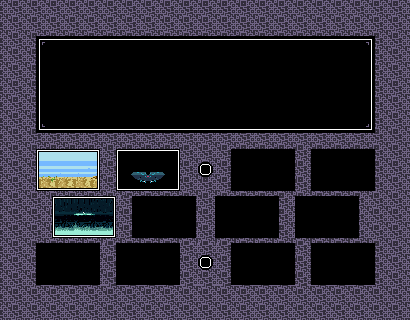
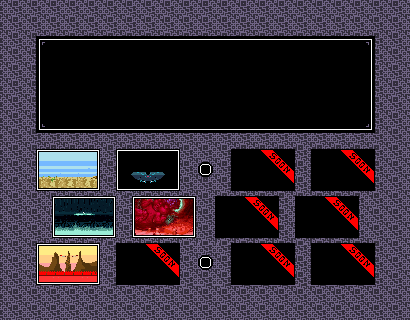
In the middle of adding peaks stage

diff --git a/StageSelection.js b/StageSelection.js
@@ -15,6 +15,9 @@ var StageSelection = function(w, h)
 	this.xSelect3 = 53 * 2;
 	this.ySelect3 = 197 * 2;
 	
+	this.xSelect4 = 135 * 2;
+	this.ySelect4 = 199 * 2;
+	
 	this.currentSelectionX = this.xSelect1;
 	this.currentSelectionY = this.ySelect1;
 	this.selectionNumber = 0; //0 = desert, 1 = final destination, 2 = grotto
@@ -31,9 +34,9 @@ StageSelection.prototype =
     {
 		//makes sure selection number is within range
 		if(this.selectionNumber < 0){ 
-			this.selectionNumber = 2;
+			this.selectionNumber = 3;
 		}
-		if(this.selectionNumber > 2){ 
+		if(this.selectionNumber > 3){ 
 			this.selectionNumber = 0;
 		}
 	
@@ -49,6 +52,10 @@ StageSelection.prototype =
 		else if(this.selectionNumber === 2){
 			this.currentSelectionX = this.xSelect3;
 			this.currentSelectionY = this.ySelect3;
+		}
+		else if(this.selectionNumber === 3){
+			this.currentSelectionX = this.xSelect4;
+			this.currentSelectionY = this.ySelect4;
 		}
     },
 
@@ -98,6 +105,9 @@ StageSelection.prototype =
 		}
 		else if(this.selectionNumber === 2){
 			canvas.drawImage(engine.gameState.grottoBackground, 43, 120, 326, 84, 43 * 2, 43 * 2, 325 * 2, 83 * 2);
+		}
+		else if(this.selectionNumber === 3){
+			canvas.drawImage(engine.gameState.peaksBackground, 43, 120, 326, 84, 43 * 2, 43 * 2, 325 * 2, 83 * 2);
 		}
 		
 		canvas.drawImage(this.stageSelectHighlight, this.currentSelectionX, this.currentSelectionY, 62 * 2, 40 * 2);

diff --git a/GameState.js b/GameState.js
@@ -8,6 +8,7 @@ var GameState = function(w, h, level)
     this.desertBackground = null;
 	this.finalDestinationBackground = null;
 	this.grottoBackground = null;
+	this.peaksBackground = null;
 	this.activeBackground = null;
 
 	this.finalDestinationTheme = new Audio("final_D.ogg");
@@ -64,6 +65,9 @@ var GameState = function(w, h, level)
 	}
 	else if(level === 2){
 		this.grottoTheme.play();
+	}
+	else if(level === 3){
+		//this.peaksTheme.play();
 	}
 	
 	this.targetHeight = 0;
@@ -236,6 +240,7 @@ GameState.prototype =
         this.desertBackground = resources.bgDesert;
         this.finalDestinationBackground = resources.bgFinalD;
         this.grottoBackground = resources.bgGrotto;
+		this.peaksBackground = resources.bgPeaks;
         this.activeBackground = this.desertBackground;
 
         this.player1.giveResources(resources);

diff --git a/Resources.js b/Resources.js
@@ -4,11 +4,13 @@ var Resources = function(callback)
     this.bgFinalD = new Image();
     this.bgGrotto = new Image();
     this.bgFetus  = new Image();
+	this.bgPeaks = new Image();
 
     this.bgDesert.src = './images/bg_desert.png';
     this.bgFinalD.src = './images/finald.png';
     this.bgGrotto.src = './images/bg_grotto.png';
     this.bgFetus.src = './images/fetus of god.png';
+	this.bgPeaks.src = './images/peaks.png';
 
     this.p1Select    = new Image();
     this.p2Select    = new Image();
